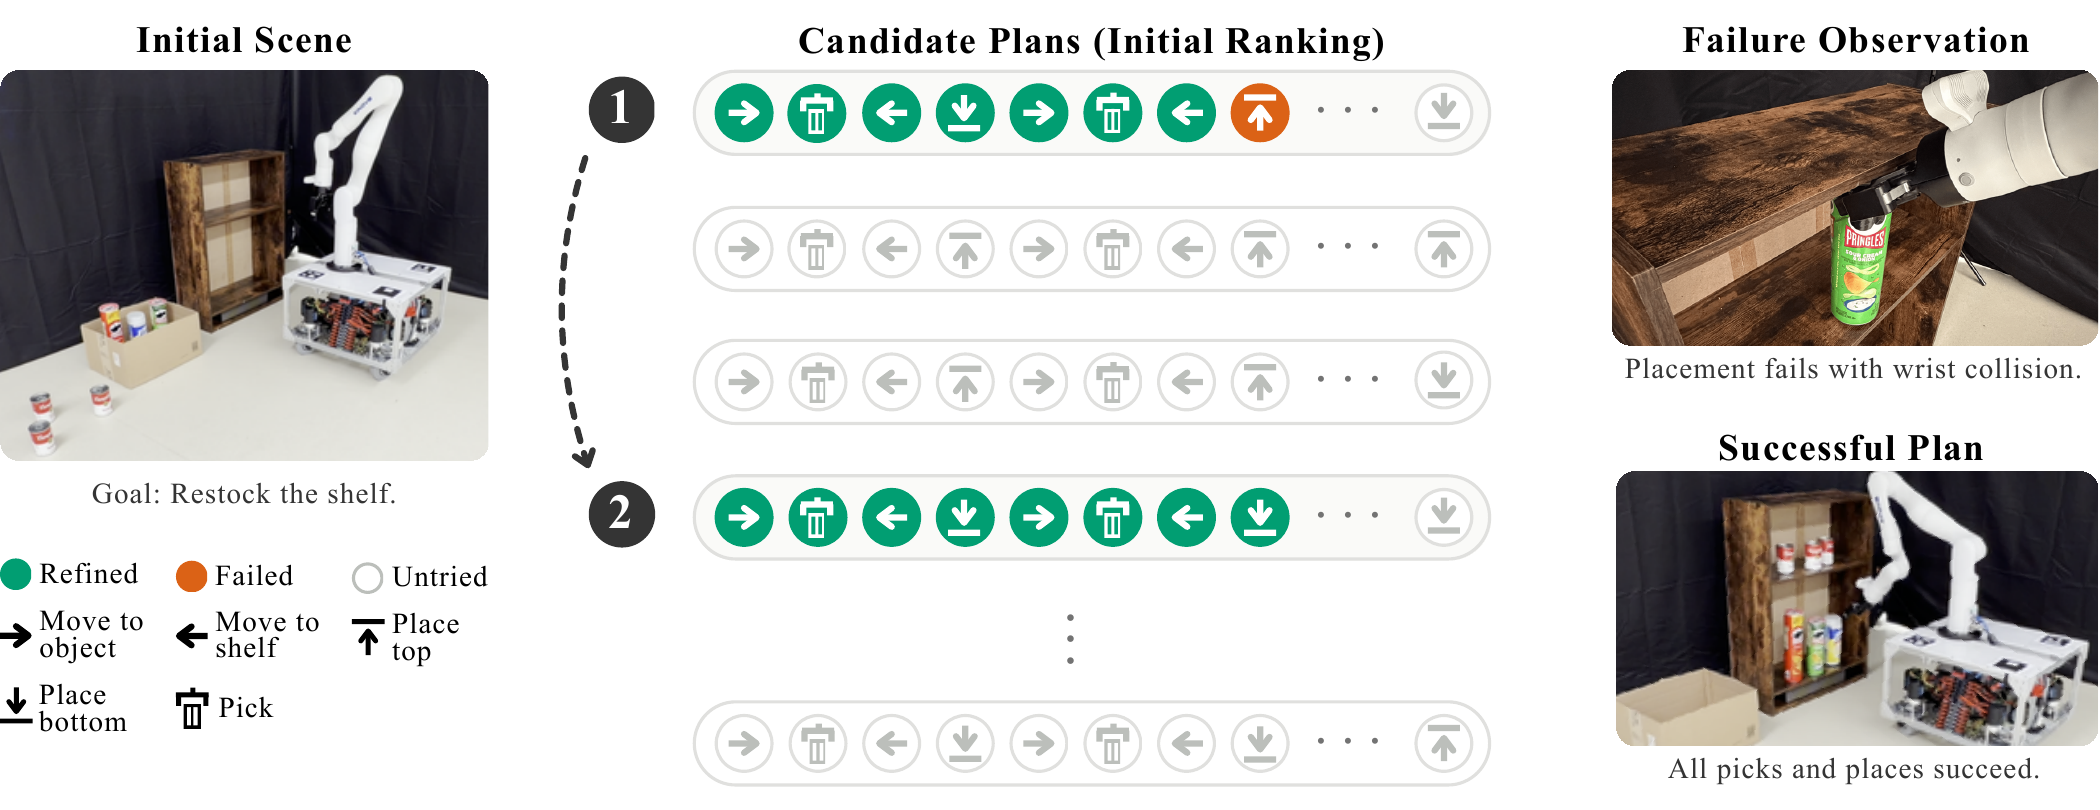
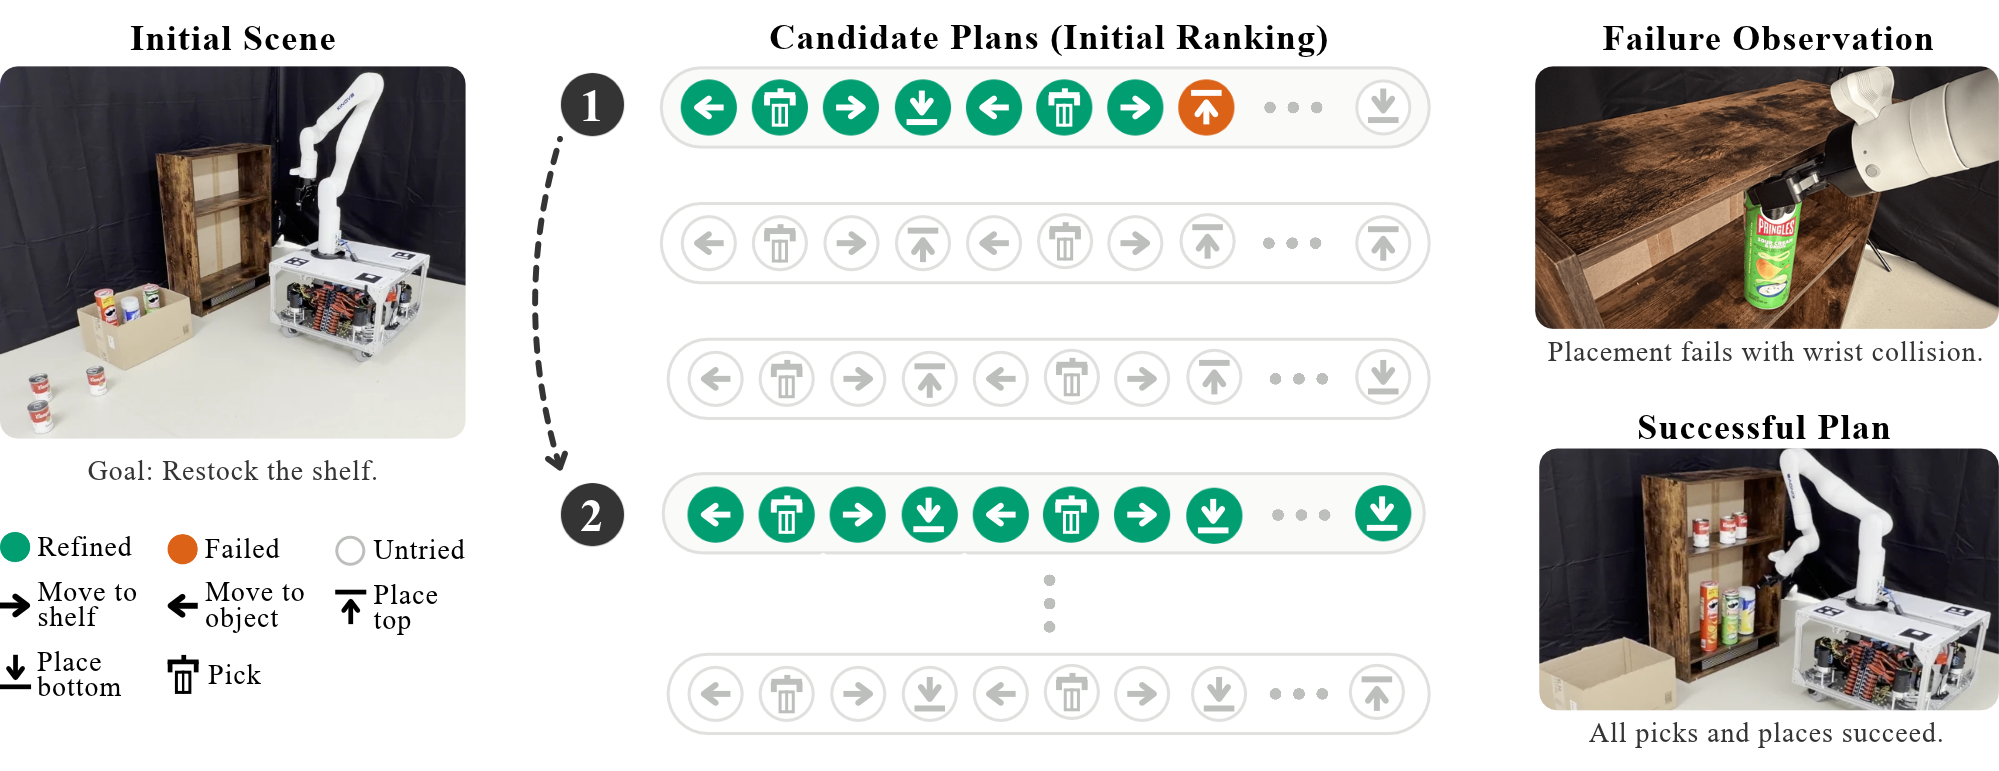
Update the teaser figure

diff --git a/index.html b/index.html
@@ -11,8 +11,8 @@
   <meta property="og:description" content="We present SPECTRE, a learned plan ranker that uses evidence computed during failed refinement attempts to re-rank the remaining candidates after each failed refinement." />
   <meta property="og:url" content="https://spectre-submission.github.io/" />
   <meta property="og:image" content="https://spectre-submission.github.io/static/images/fig_teaser.png" />
-  <meta property="og:image:width" content="2100" />
-  <meta property="og:image:height" content="810" />
+  <meta property="og:image:width" content="1999" />
+  <meta property="og:image:height" content="771" />
   <meta name="twitter:card" content="summary_large_image">
   <meta name="twitter:title" content="SPECTRE: Skeleton Priority Estimation Conditioned on TAMP Refinement Evidence">
   <meta name="twitter:description" content="We present SPECTRE, a learned plan ranker that uses evidence computed during failed refinement attempts to re-rank the remaining candidates after each failed refinement.">
